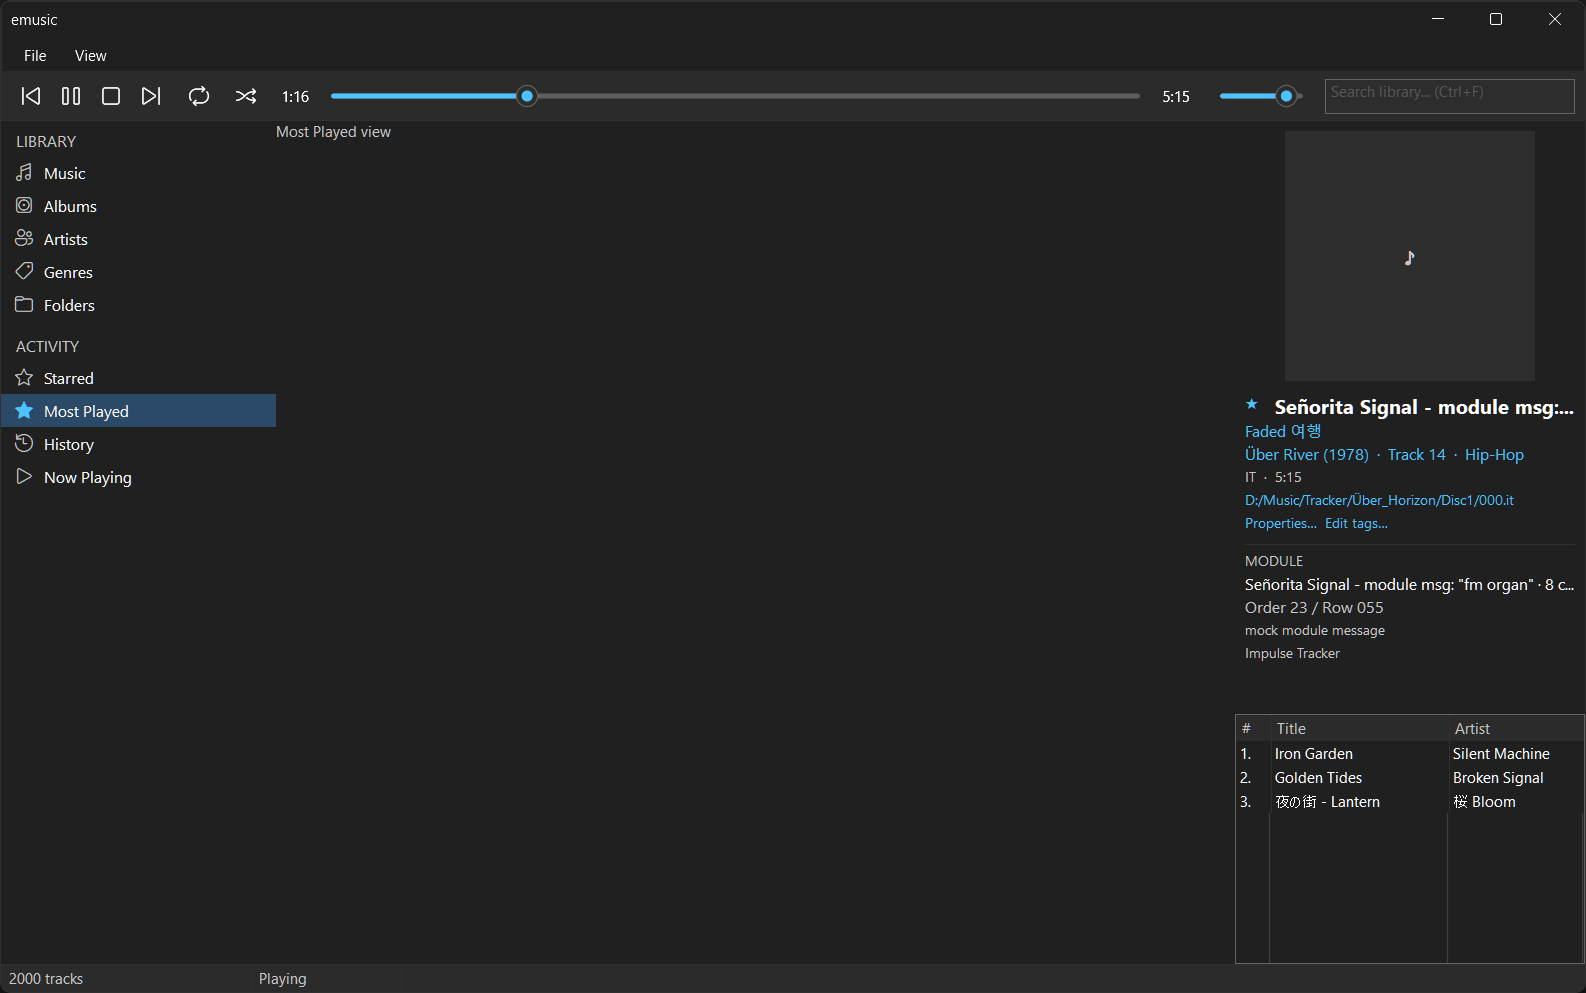
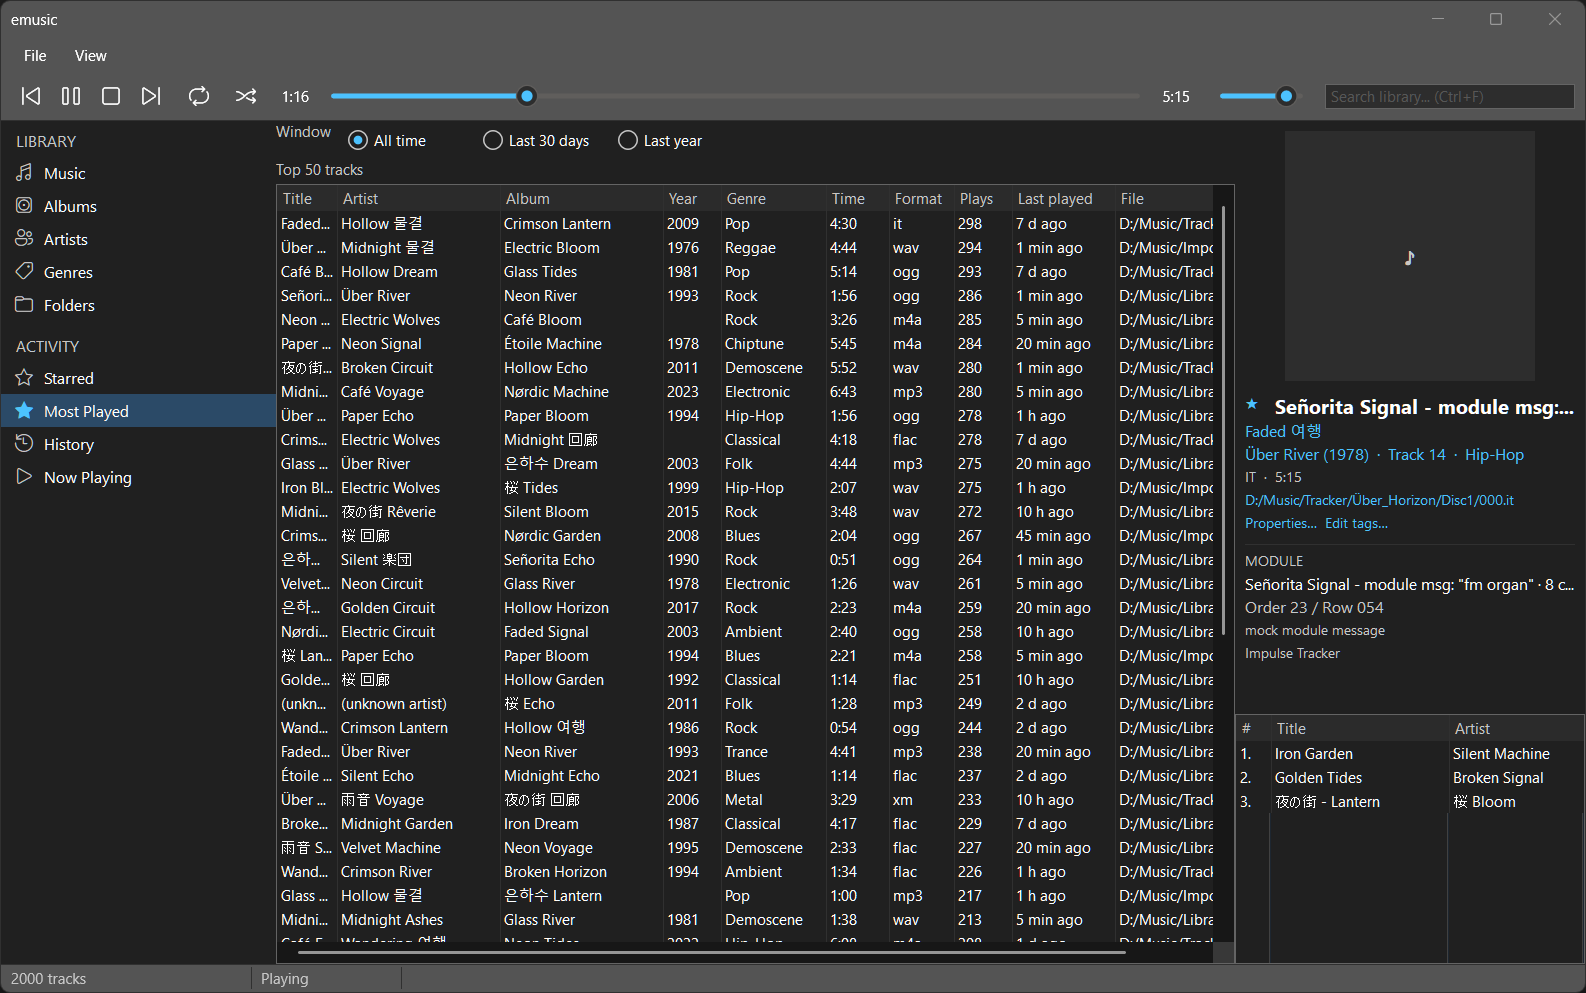
Win32: Most Played view (#245)
Closes #245

diff --git a/crates/win32/src/app.rs b/crates/win32/src/app.rs
@@ -9,7 +9,7 @@ use std::time::Instant;
 
 use emusic_ui::backend::ipc::IpcBridge;
 use emusic_ui::config::Config;
-use emusic_ui::library_api::LibraryDataSource;
+use emusic_ui::library_api::{LibraryDataSource, StatsWindow};
 use emusic_ui::panels::top_bar::TopBarMsg;
 use emusic_ui::player_api::PlayerApi;
 use emusic_ui::shell::{Changes, Shell};
@@ -29,6 +29,7 @@ use crate::views::artists::ArtistsView;
 use crate::views::column_browser::ColumnBrowserView;
 use crate::views::folders::FoldersView;
 use crate::views::genres::GenresView;
+use crate::views::most_played::MostPlayedView;
 use crate::views::music::MusicView;
 use crate::views::navigator::NavigatorView;
 use crate::views::now_playing::{self, NowPlayingView, SummaryEvent};
@@ -58,6 +59,8 @@ pub enum Msg {
     ContextRow(usize),
     /// Run a track-table context-menu action.
     ContextAction(ContextAction),
+    /// The Most Played view's time-window selector changed.
+    MostPlayed(StatsWindow),
     /// An event from the Albums view.
     Album(AlbumMsg),
     /// A folder tree row was selected (or the selection cleared).
@@ -104,6 +107,7 @@ pub struct Win32App {
     folders: FoldersView,
     artists: ArtistsView,
     genres: GenresView,
+    most_played: MostPlayedView,
     settings: SettingsView,
     starred: StarredView,
     right_panel: NowPlayingView,
@@ -146,6 +150,7 @@ impl Win32App {
         let folders = FoldersView::new(ui).expect("create folders view");
         let artists = ArtistsView::new(ui).expect("create artists view");
         let genres = GenresView::new(ui).expect("create genres view");
+        let most_played = MostPlayedView::new(ui).expect("create most played view");
         let settings = SettingsView::new(ui).expect("create settings view");
         let starred = StarredView::new(ui).expect("create starred view");
         let status = StatusBarView::new(ui).expect("create status bar");
@@ -176,6 +181,7 @@ impl Win32App {
                 | View::Artists
                 | View::Folders
                 | View::Genres
+                | View::MostPlayed
                 | View::Settings
                 | View::Starred
         ));
@@ -185,6 +191,7 @@ impl Win32App {
         folders.set_visible(view == View::Folders);
         artists.set_visible(view == View::Artists);
         genres.set_visible(view == View::Genres);
+        most_played.set_visible(view == View::MostPlayed);
         settings.set_visible(view == View::Settings);
         starred.set_visible(view == View::Starred);
         ui.on_timer(|_| Some(Msg::Timer));
@@ -202,6 +209,7 @@ impl Win32App {
             folders,
             artists,
             genres,
+            most_played,
             settings,
             starred,
             right_panel,
@@ -237,6 +245,7 @@ impl Win32App {
             View::Albums => self.albums.layout().fill(1),
             View::Artists => self.artists.layout().fill(1),
             View::Genres => self.genres.layout().fill(1),
+            View::MostPlayed => self.most_played.layout().fill(1),
             View::Folders => self.folders.layout().fill(1),
             View::Starred => self.starred.layout().fill(1),
             View::Settings => self.settings.tabs().into_layout_item(),
@@ -288,6 +297,7 @@ impl Win32App {
                     | View::Artists
                     | View::Folders
                     | View::Genres
+                    | View::MostPlayed
                     | View::Settings
                     | View::Starred
             ));
@@ -296,6 +306,7 @@ impl Win32App {
             self.folders.set_visible(view == View::Folders);
             self.artists.set_visible(view == View::Artists);
             self.genres.set_visible(view == View::Genres);
+            self.most_played.set_visible(view == View::MostPlayed);
             self.settings.set_visible(view == View::Settings);
             self.starred.set_visible(view == View::Starred);
             let browser_visible = view == View::Music && self.shell.state.music.browser.visible;
@@ -357,6 +368,14 @@ impl Win32App {
         if view == View::Genres {
             self.genres
                 .sync(&mut self.shell.state, self.shell.library.as_ref());
+        }
+
+        if view == View::MostPlayed {
+            self.most_played.sync(
+                &mut self.shell.state,
+                self.shell.library.as_ref(),
+                playing_id,
+            );
         }
 
         if view == View::Albums {
@@ -584,6 +603,7 @@ impl App for Win32App {
                     View::Music => self.music.activate(row),
                     View::Folders => self.folders.activate(row),
                     View::Starred => self.starred.activate(row),
+                    View::MostPlayed => self.most_played.activate(row),
                     _ => None,
                 };
                 if let Some(command) = command {
@@ -614,6 +634,11 @@ impl App for Win32App {
                         self.starred
                             .resort(&self.shell.state, self.shell.library.as_ref());
                     }
+                    View::MostPlayed => {
+                        self.shell.state.most_played.table.sort.toggle(id);
+                        self.most_played
+                            .resort(&self.shell.state, self.shell.library.as_ref());
+                    }
                     _ => return,
                 }
                 self.tick(ui);
@@ -639,6 +664,10 @@ impl App for Win32App {
                     View::Starred => {
                         self.starred.set_context_row(row);
                         self.starred.context_menu().clone()
+                    }
+                    View::MostPlayed => {
+                        self.most_played.set_context_row(row);
+                        self.most_played.context_menu().clone()
                     }
                     _ => return,
                 };
@@ -677,12 +706,17 @@ impl App for Win32App {
                     View::Music => self.music.run_context(action, ui.hwnd()),
                     View::Folders => self.folders.run_context(action, ui.hwnd()),
                     View::Starred => self.starred.run_context(action, ui.hwnd()),
+                    View::MostPlayed => self.most_played.run_context(action, ui.hwnd()),
                     _ => None,
                 };
                 if let Some(command) = command {
                     self.shell.dispatch(command);
                     self.tick(ui);
                 }
+            }
+            Msg::MostPlayed(window) => {
+                self.shell.state.most_played.window = window;
+                self.tick(ui);
             }
             Msg::Album(msg) => {
                 let playing_id =

diff --git a/crates/win32/src/views/most_played.rs b/crates/win32/src/views/most_played.rs
@@ -1,0 +1,177 @@
+//! Win32 Most Played view (#245): a time-window selector above the shared
+//! track table ranked by completed play count.
+//!
+//! The window and the table's sort/selection live in `emusic-ui`'s
+//! [`MostPlayedState`](emusic_ui::views::most_played::MostPlayedState); the
+//! ranking itself is queried per window from the backend. This module only
+//! owns the native controls and hands the ranked tracks to the reusable
+//! [`TrackView`], as Music/Folders/Starred do.
+
+use std::cell::Cell;
+
+use emusic_ui::library_api::{LibraryDataSource, StatsWindow, TrackInfo};
+use emusic_ui::state::AppState;
+use emusic_ui::views::Ctx;
+use win32ui::prelude::*;
+use win32ui::{Control, Label, Menu, RadioGroup, column, dip, row};
+
+use crate::app::Msg;
+use crate::views::track_table::TrackView;
+
+/// Height of the window-selector band, in design units.
+const HEADER_HEIGHT: f32 = 30.0;
+/// Width of the "Window" label, in design units.
+const LABEL_WIDTH: f32 = 56.0;
+/// Height of the "Top N tracks" label, in design units.
+const LABEL_HEIGHT: f32 = 20.0;
+
+/// The Win32 Most Played view: the window selector and the ranked table.
+pub struct MostPlayedView {
+    window_label: Label,
+    window: RadioGroup<StatsWindow, Msg>,
+    count: Label,
+    table: TrackView,
+    /// The window and table revision the controls were last built from.
+    applied: Cell<(Option<StatsWindow>, u64)>,
+}
+
+impl MostPlayedView {
+    /// Creates the selector, the count label and the (empty) track table.
+    pub fn new(ui: &mut Ui<Msg>) -> Result<Self> {
+        let window = RadioGroup::new(ui, StatsWindow::ALL.map(|window| (window.label(), window)))?
+            .selected(StatsWindow::AllTime)
+            .on_select(|window| Some(Msg::MostPlayed(*window)));
+        Ok(Self {
+            window_label: Label::new(ui, Rect::default(), "Window")?,
+            window,
+            count: Label::new(
+                ui,
+                Rect::default(),
+                "No completed plays in this window yet.",
+            )?,
+            table: TrackView::new(ui)?,
+            applied: Cell::new((None, u64::MAX)),
+        })
+    }
+
+    /// Refreshes the shared table model from the library's ranking for the
+    /// selected window, and rebuilds the controls when the window or the
+    /// ranking changed.
+    pub fn sync(
+        &mut self,
+        state: &mut AppState,
+        library: &dyn LibraryDataSource,
+        playing_id: Option<u64>,
+    ) {
+        if self.window.selected_value() != Some(state.most_played.window) {
+            self.window.set_selected(&state.most_played.window);
+        }
+
+        let ranked = library.most_played(state.most_played.window);
+        let tracks: Vec<&TrackInfo> = ranked.iter().collect();
+        state
+            .most_played
+            .table
+            .refresh(&Ctx::new(&tracks, playing_id));
+
+        let applied = (
+            Some(state.most_played.window),
+            state.most_played.table.revision(),
+        );
+        if self.applied.get() != applied {
+            self.applied.set(applied);
+            self.count.set_text(&count_label(&tracks));
+            self.table.set_rows(&tracks, state.most_played.table.sort);
+        }
+        self.table.sync_playing(playing_id);
+    }
+
+    /// Rebuilds the table after a header click, preserving the new sort.
+    pub fn resort(&mut self, state: &AppState, library: &dyn LibraryDataSource) {
+        let ranked = library.most_played(state.most_played.window);
+        let tracks: Vec<&TrackInfo> = ranked.iter().collect();
+        self.table.set_rows(&tracks, state.most_played.table.sort);
+    }
+
+    /// The command to play `index` in the context of the whole visible list.
+    pub fn activate(&self, index: usize) -> Option<emusic_ui::state::Command> {
+        self.table.activate(index)
+    }
+
+    /// Runs a context action on the row that opened the menu.
+    pub fn run_context(
+        &self,
+        action: crate::views::track_table::ContextAction,
+        hwnd: win32ui::Hwnd,
+    ) -> Option<emusic_ui::state::Command> {
+        self.table.run_context(action, hwnd)
+    }
+
+    /// Remembers the row whose context menu was opened, so `run_context` can
+    /// act on it.
+    pub fn set_context_row(&self, row: usize) {
+        self.table.set_context_row(row);
+    }
+
+    /// The track table's context menu.
+    pub fn context_menu(&self) -> &Menu<Msg> {
+        self.table.context_menu()
+    }
+
+    /// Shows or hides the whole view (its selector, count label and table).
+    pub fn set_visible(&self, visible: bool) {
+        self.window_label.set_visible(visible);
+        self.window.set_visible(visible);
+        self.count.set_visible(visible);
+        self.table.set_visible(visible);
+    }
+
+    /// The window-selector band and count label above the track table.
+    pub fn layout(&self) -> Layout {
+        column![
+            row![
+                self.window_label.width(dip(LABEL_WIDTH)),
+                window_row(&self.window),
+            ]
+            .height(dip(HEADER_HEIGHT)),
+            self.count.height(dip(LABEL_HEIGHT)),
+            self.table.fill(1),
+        ]
+    }
+}
+
+impl AsControl for MostPlayedView {
+    fn control(&self) -> &Control {
+        self.table.control()
+    }
+}
+
+/// Lays the window options out in a single horizontal row.
+fn window_row(group: &RadioGroup<StatsWindow, Msg>) -> Layout {
+    let mut row = Layout::row().spacing(dip(16.0));
+    for option in group.options() {
+        row = row.item(option);
+    }
+    row
+}
+
+/// The label above the table: the number of ranked tracks, or the empty hint.
+fn count_label(tracks: &[&TrackInfo]) -> String {
+    if tracks.is_empty() {
+        "No completed plays in this window yet.".to_string()
+    } else {
+        format!("Top {} tracks", tracks.len())
+    }
+}
+
+#[cfg(test)]
+mod tests {
+    use super::*;
+
+    #[test]
+    fn count_label_pluralizes_the_ranking_size() {
+        assert_eq!(count_label(&[]), "No completed plays in this window yet.");
+        let track = TrackInfo::default();
+        assert_eq!(count_label(&[&track]), "Top 1 tracks");
+    }
+}

diff --git a/crates/win32/tests/smoke.rs b/crates/win32/tests/smoke.rs
@@ -197,6 +197,41 @@ fn genres_view_builds_its_model_and_quits() {
     assert!(constructed.get(), "the app was never constructed");
 }
 
+/// Exercises the Most Played view wiring (#245): navigating there must build
+/// the window selector and the ranked track table from the mock library and
+/// tick without panicking.
+#[test]
+fn most_played_view_builds_its_table_and_quits() {
+    let constructed = Rc::new(Cell::new(false));
+    let constructed_for_make = Rc::clone(&constructed);
+
+    let result = win32ui::run_app(
+        WindowSpec::new("emusic-win32.most-played").theme(Theme::dark()),
+        move |ui| {
+            let app = Win32App::new(
+                ui,
+                Box::new(MockLibrary::new()),
+                Box::new(MockPlayer::default()),
+                Config::default(),
+                None,
+                None,
+                None,
+                WakerSlot::new(),
+            );
+            ui.emit(Msg::Navigate(emusic_ui::state::View::MostPlayed));
+            ui.emit(Msg::Quit);
+            constructed_for_make.set(true);
+            app
+        },
+    );
+
+    if result.is_err() {
+        eprintln!("skipping: this session cannot create windows");
+        return;
+    }
+    assert!(constructed.get(), "the app was never constructed");
+}
+
 /// Exercises the Albums view wiring (#113): navigating there must build the
 /// grid model from the mock library and tick without panicking.
 #[test]

diff --git a/crates/win32/src/views/mod.rs b/crates/win32/src/views/mod.rs
@@ -10,6 +10,7 @@ pub mod artists;
 pub mod column_browser;
 pub mod folders;
 pub mod genres;
+pub mod most_played;
 pub mod music;
 pub mod name_counts;
 pub mod navigator;
